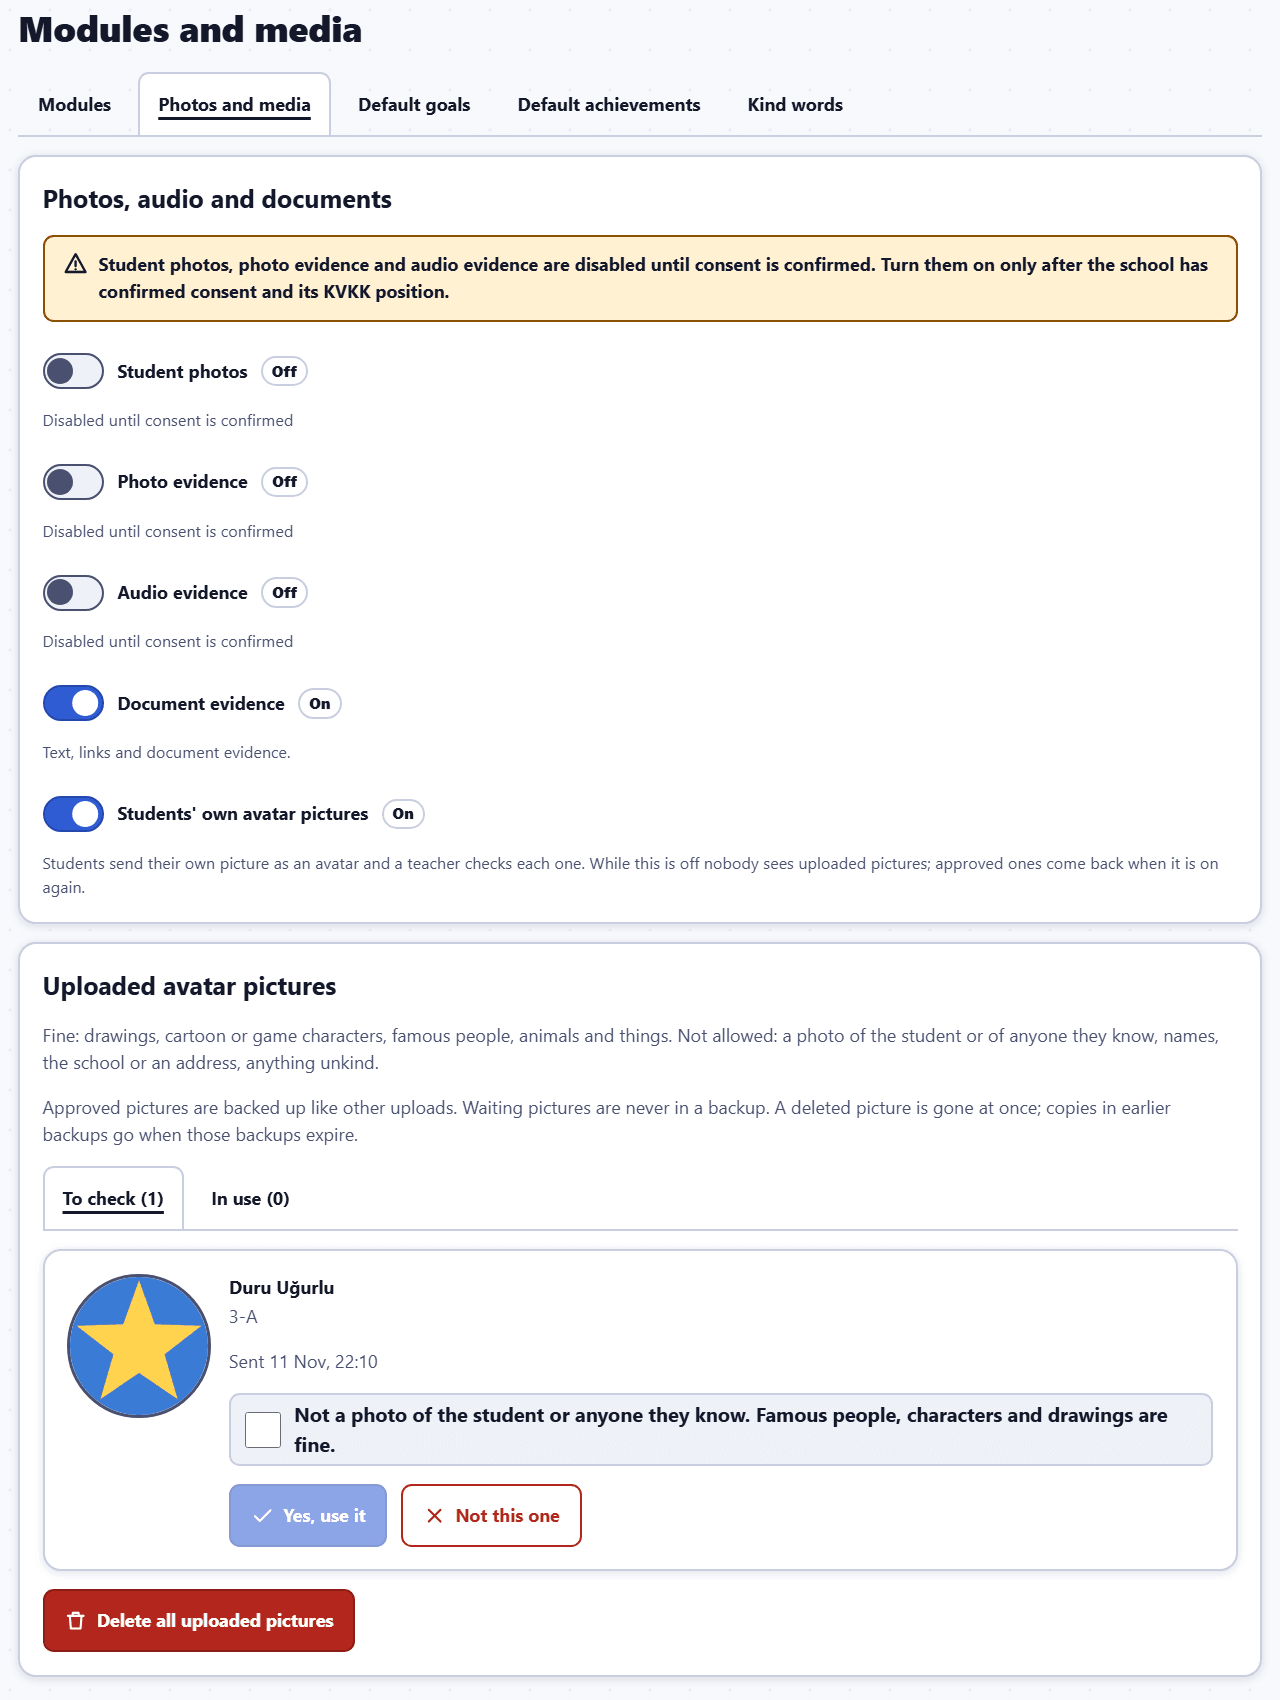
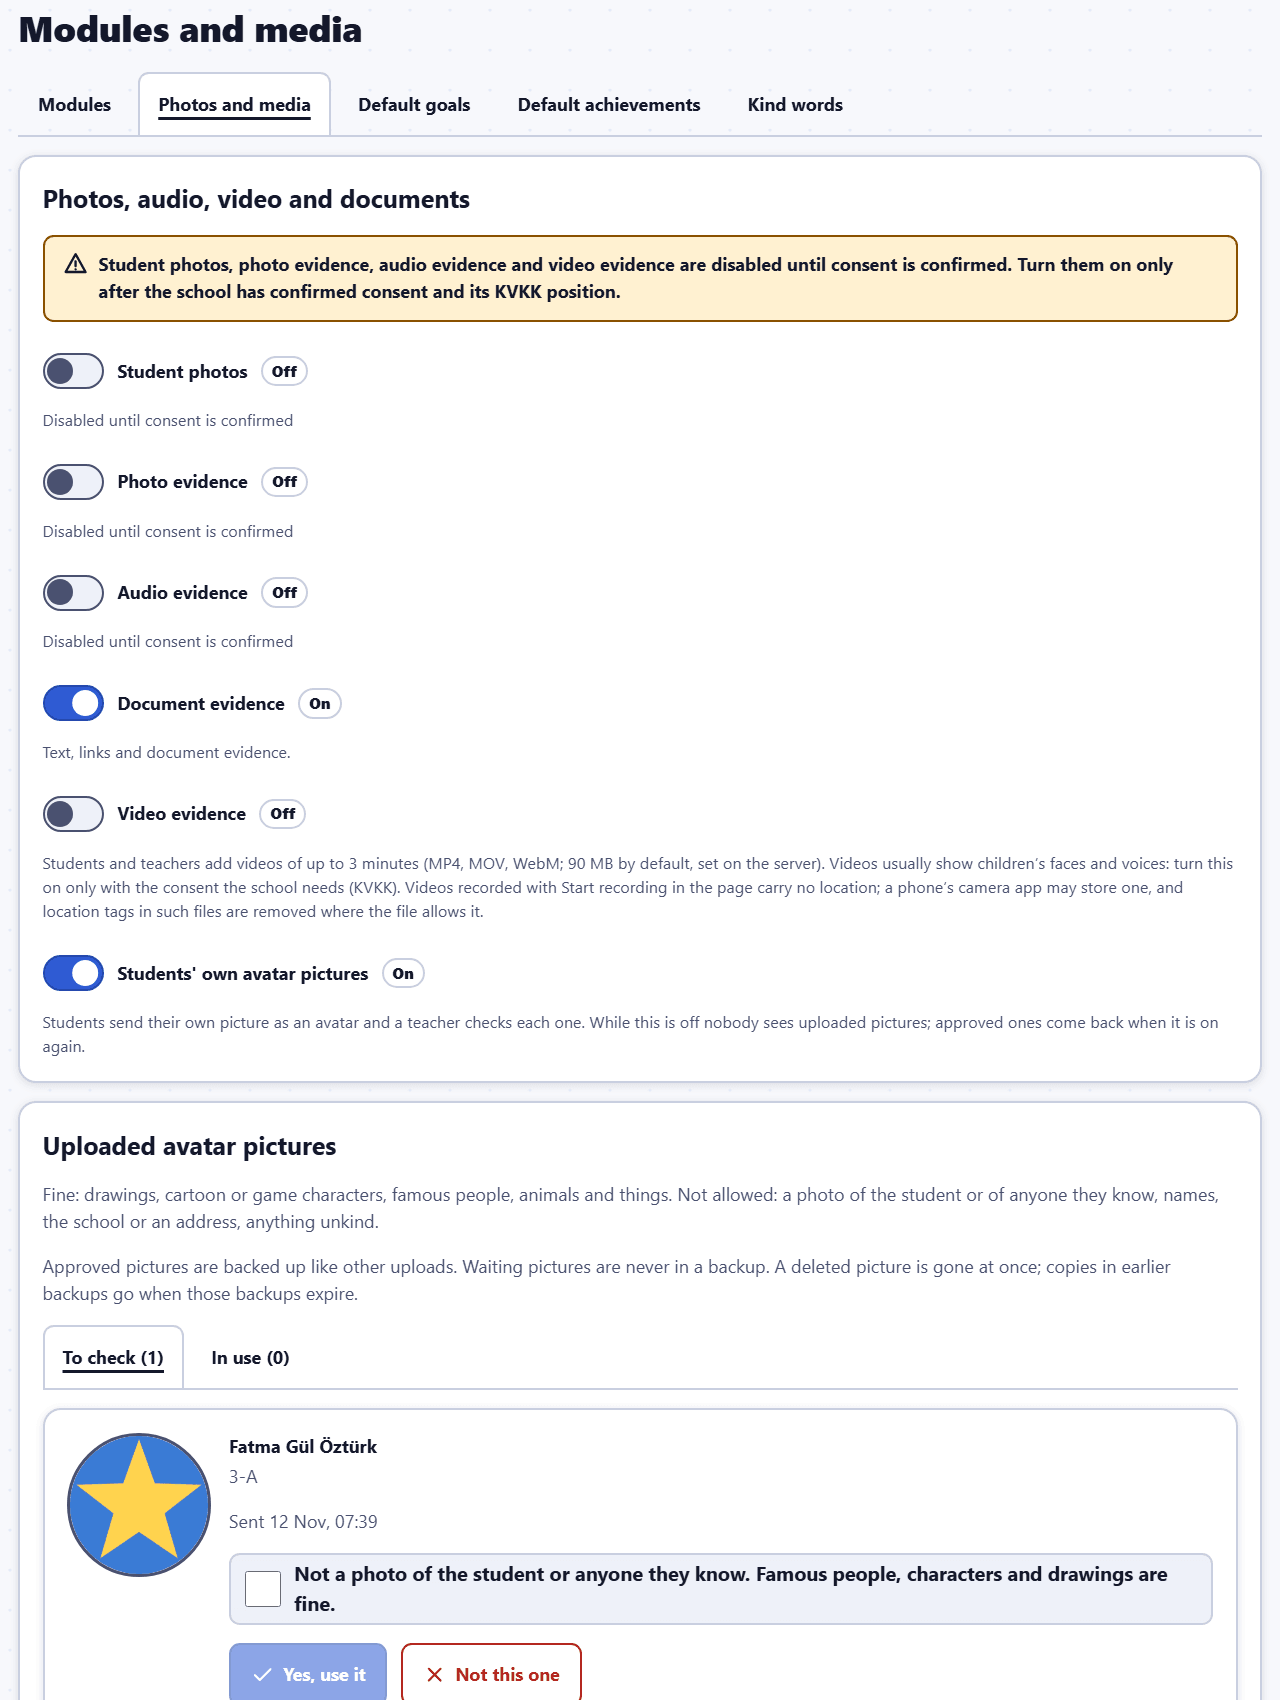
S27: verify: guide screenshots after S26b, S26c and S27a-d
- `npm run docs:screenshots`: only Admin -> Photos and media changed for real (the Video
  evidence switch, S27a, D-193), committed in EN and TR; 39 other pictures per language
  differed by run data only (random demo avatars, notifications, scroll position) and were put back.
- The script opened the first student on the Goals page for `goals-student`; the demo history
  gives goals by chance and its length follows the date, so that student had none today. It now
  opens the first student with an active goal.
- ROADMAP: the standing screenshot note records this run; the S27a, S27b and S27d screenshot
  boxes stay open (the script takes no picture of the recorder, My goals' "Add my work" or
  Admin -> Assistant yet).

Changed region(s): [[0.0312, 0.4676, 0.9688, 1.0], [0.0938, 0.1559, 0.5, 0.1871], [0.1562, 0.0935, 0.375, 0.1247]]

diff --git a/e2e/docs-screenshots.spec.ts b/e2e/docs-screenshots.spec.ts
@@ -203,7 +203,14 @@ for (const lang of ['en', 'tr'] as const) {
       await tp.goto('/teacher/goals');
       await expect(tp.getByTestId('goals-page')).toBeVisible();
       await tp.getByLabel(T('teacher.chooseClass'), { exact: true }).selectOption({ label: classLabel });
-      await tp.getByTestId('goals-page').locator('table button').first().click();
+      // The demo history gives goals by chance and its length follows today's date, so the first
+      // student may have none: open the first one with an active goal (the "Active" column).
+      const goalRows = tp.getByTestId('goals-page').locator('table tbody tr');
+      await expect(goalRows.first()).toBeVisible();
+      const activeCounts = await goalRows.evaluateAll((rows) => rows.map((r) => Number(r.querySelectorAll('td, th')[1]?.textContent?.trim() ?? '0')));
+      const withGoal = activeCounts.findIndex((n) => n > 0);
+      expect(withGoal).toBeGreaterThanOrEqual(0);
+      await goalRows.nth(withGoal).getByRole('button').first().click();
       await expect(tp.getByTestId('teacher-student-goals')).toBeVisible();
       await expect(tp.getByTestId('teacher-goal').first()).toBeVisible();
       await shot(tp, lang, 'goals-student', { from: '[data-testid="teacher-student-goals"]' });

diff --git a/docs/ROADMAP.md b/docs/ROADMAP.md
@@ -526,7 +526,7 @@ Decision D-191; no migration.
 - [x] `npm run new:language` and `npm run check:language`: dictionaries with marked English text, the guide folder, the language list with a `ready` flag that the contracts and a test enforce (S1 box split: the teacher-typed labels half stays open)
 - [x] Student page 368.6 → 345.1 kB gzip before the first render (346.7 kB after the rebase on S26b and S27a–d; whose "Add my work" steps are lazy too) (a visit still fetches about the same in total: the writing screens are preloaded right after it, and open without "Loading…" once they are), without behaviour change: `shared/pii.ts`, `themePackage/art.ts` and `contractParts.ts` split off, the imported-theme code (`themes/customLoader.ts` → lazy `custom.tsx`) and the writing screens lazy (closes the S23a box)
 - [x] The S13c theme-art box closed by the owner's decision (art sets choose and recolour the built-in sets), recorded in D-191 and THEMING.md
-- [x] Tests: `tests/scripts/scaffold.test.ts` (a language scaffolded, typechecked and checked in a temporary copy), `tests/scripts/languages.test.ts`, `tests/scripts/student-imports.test.ts`; `tests/client/student-page.test.tsx` and `student-goal-work.test.tsx` (a preloaded screen opens without "Loading…"), `tests/docs/guides.test.ts` and `tests/scripts/docker.test.ts` over `LOCALES`; e2e `student-page`, `student-goal-work`, `button-groups`, `help`, `theme-packages`, `avatar-uploads`, `achievements-avatars` and `npm run test:visual` run (the theme-packages "Snow Day" free-space check at 1536×864 fails on main before this stage too)
+- [x] Tests: `tests/scripts/scaffold.test.ts` (a language scaffolded, typechecked and checked in a temporary copy), `tests/scripts/languages.test.ts`, `tests/scripts/student-imports.test.ts`; `tests/client/student-page.test.tsx` and `student-goal-work.test.tsx` (a preloaded screen opens without "Loading…"), `tests/docs/guides.test.ts` and `tests/scripts/docker.test.ts` over `LOCALES`; e2e `student-page`, `student-goal-work`, `button-groups`, `help`, `theme-packages`, `avatar-uploads`, `achievements-avatars` and `npm run test:visual` run (the theme-packages "Snow Day" free-space check at 1536×864 fails on main before this stage too; stale since the one automatic card size, D-195, and updated in S27-verify)
 - [ ] Not built: a third language for teacher-typed labels (above); pickers that list `LOCALES` (only needed when a third language becomes ready)
 
 ## S27a Student video evidence: record and attach (wave S27, 2026-11-12)
@@ -604,4 +604,4 @@ Markdown guides in `docs/guides/en/` and `docs/guides/tr/`, shown read-only in t
 - [ ] Read through by the owner and a Turkish-speaking teacher (wording, anything unclear for colleagues)
 - [x] Administrators set their Maintenance PIN in Profile (asked by "Back up now" and "Verify the latest backup"); the admin guide is updated (D-138)
 - [x] The sign-in pages have an English | Türkçe switch, remembered per device; without a choice they follow a Turkish browser, then the school's language for new accounts; the Turkish teacher guide quotes the Turkish labels (D-142)
-- [ ] Re-run `npm run docs:screenshots` after visible UI changes (standing rule, no automatic check that the pictures are current; last full run S25-verify, 2026-11-11 on main after S22–S25: 12 new pictures per language (58 each); of the 46 existing, 7 per language had real UI changes and were committed, the rest differed only by run data or a 1 px shift and were put back)
+- [ ] Re-run `npm run docs:screenshots` after visible UI changes (standing rule, no automatic check that the pictures are current; last full run S25-verify, 2026-11-11 on main after S22–S25: 12 new pictures per language (58 each); of the 46 existing, 7 per language had real UI changes and were committed, the rest differed only by run data or a 1 px shift and were put back; S27-verify, 2026-11-12 on main after S26b, S26c and S27a–d: only Admin → Photos and media changed for real (the Video evidence switch, S27a), committed in both languages, 39 others per language differed by run data and were put back; the script now opens a student who has a goal for `goals-student` (the demo history gives goals by chance); no picture yet of the video recorder, My goals' "Add my work" or Admin → Assistant, see the S27a, S27b and S27d boxes)
